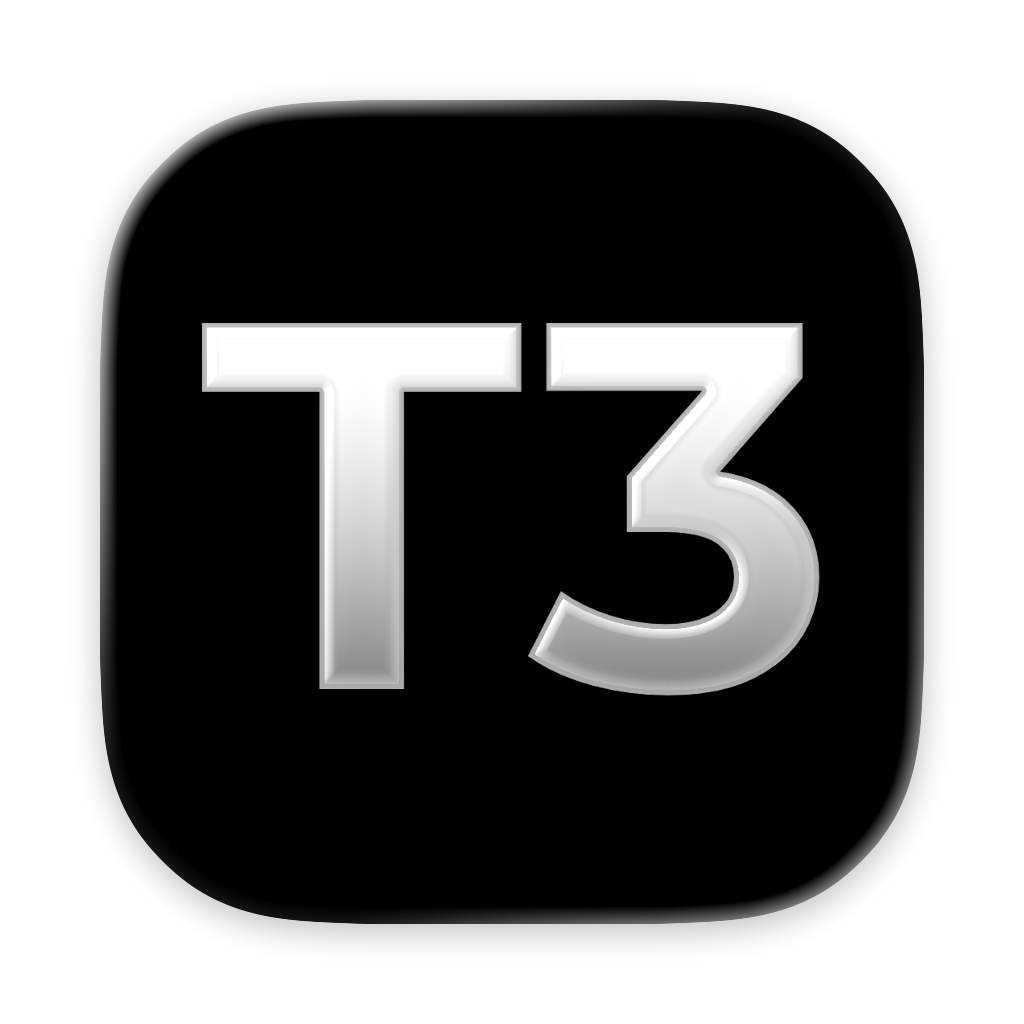
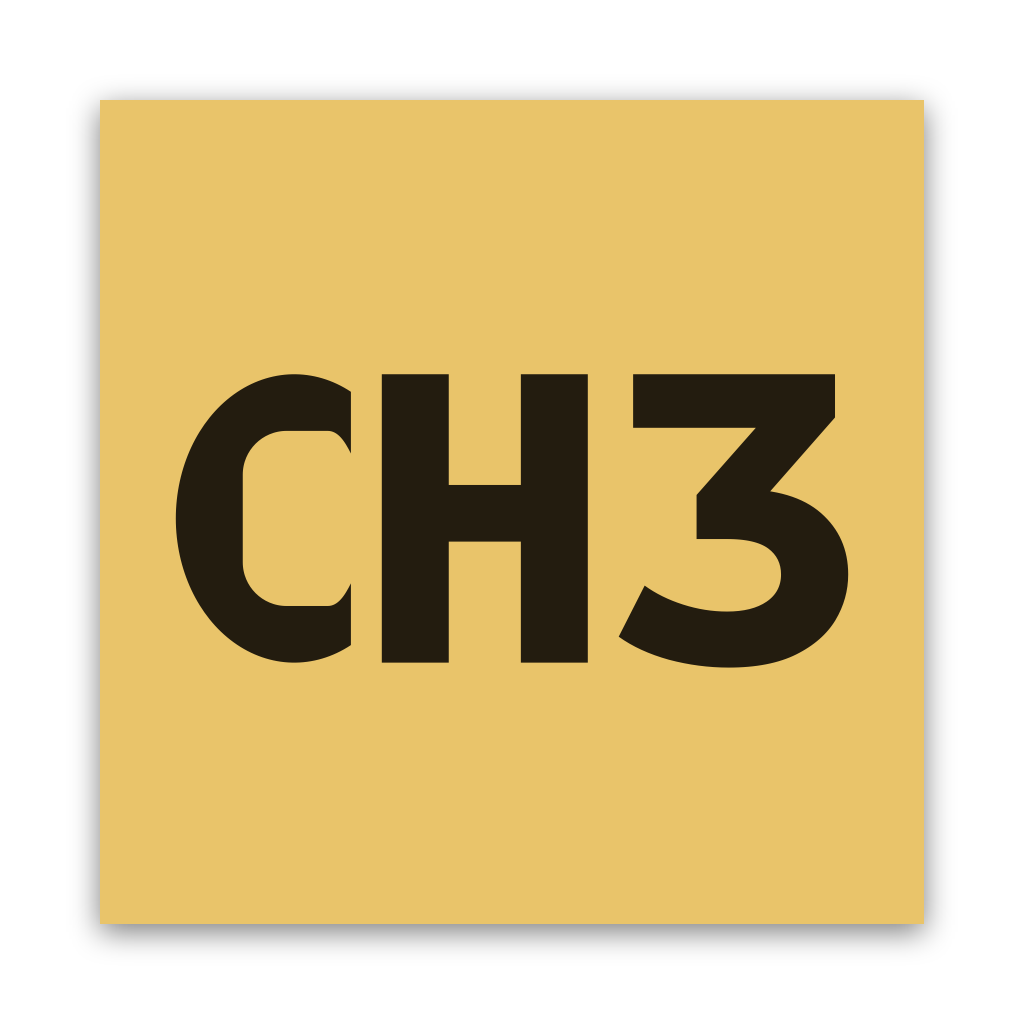
fix(ch3): finish the rebrand the text rename could not reach
The T3 -> CH3 pass was text substitution, so it renamed identifiers and
strings but could not touch two things that are not text:

1. THE WORDMARK GLYPH. SidebarChrome rendered <CH3Wordmark/> -- correctly
   named, aria-label="CH3" -- whose SVG path data still drew the letters T3.
   Path coordinates are just numbers; nothing in a find-and-replace can know
   that "M33.4509 93V47.56..." spells T3. A separate <span>Code</span> sat
   beside it, so the header read "T3 Code" in a fully "renamed" build.
   Swapped in the CH3 path with a recomputed viewBox for the new ink bounds
   (11.776 42.6 104.448 45.568), in both the web sidebar and the mobile
   wordmark. Dropped the "Code" suffix: the product is now just CH3.

2. THE APP ICON. The build generates icon.icns at package time by running
   sips/iconutil over assets/prod/black-macos-1024.png. That PNG still held
   the old black T3 mark, so every hand-edit to the generated .icns was
   overwritten on the next build. Replaced the source PNGs instead, so the
   build now produces the CH3 icon itself.

Also productName "CH3 (Alpha)" -> "CH3".

Verified against the built bundle, not the source: old T3 glyph path absent
(0 occurrences), CH3 path present (2), zero "T3 Code" strings, CFBundleName
"CH3", and the generated icns tile pixel reads (233,196,106) -- the CH3
yellow. The wordmark path was rendered to an image and visually confirmed to
draw C-H-3, because string counts had already produced one false "verified"
in this work.

diff --git a/ch3/apps/web/src/components/sidebar/SidebarChrome.tsx b/ch3/apps/web/src/components/sidebar/SidebarChrome.tsx
@@ -80,14 +80,6 @@ function SidebarBrand({ onBackdrop }: { onBackdrop: boolean }) {
       to="/"
     >
       <CH3Wordmark />
-      <span
-        className={cn(
-          "truncate text-sm font-medium tracking-tight",
-          onBackdrop ? "text-white/70" : "text-muted-foreground",
-        )}
-      >
-        Code
-      </span>
     </Link>
   );
 }
@@ -97,11 +89,11 @@ function CH3Wordmark() {
     <svg
       aria-label="CH3"
       className="h-2.5 w-auto shrink-0"
-      viewBox="15.5309 37 94.3941 56.96"
+      viewBox="11.776 42.6 104.448 45.568"
       xmlns="http://www.w3.org/2000/svg"
     >
       <path
-        d="M33.4509 93V47.56H15.5309V37H64.3309V47.56H46.4109V93H33.4509ZM86.7253 93.96C82.832 93.96 78.9653 93.4533 75.1253 92.44C71.2853 91.3733 68.032 89.88 65.3653 87.96L70.4053 78.04C72.5386 79.5867 75.0186 80.8133 77.8453 81.72C80.672 82.6267 83.5253 83.08 86.4053 83.08C89.6586 83.08 92.2186 82.44 94.0853 81.16C95.952 79.88 96.8853 78.12 96.8853 75.88C96.8853 73.7467 96.0586 72.0667 94.4053 70.84C92.752 69.6133 90.0853 69 86.4053 69H80.4853V60.44L96.0853 42.76L97.5253 47.4H68.1653V37H107.365V45.4L91.8453 63.08L85.2853 59.32H89.0453C95.9253 59.32 101.125 60.8667 104.645 63.96C108.165 67.0533 109.925 71.0267 109.925 75.88C109.925 79.0267 109.099 81.9867 107.445 84.76C105.792 87.48 103.259 89.6933 99.8453 91.4C96.432 93.1067 92.0586 93.96 86.7253 93.96Z"
+        d="M38.976 45.328C33.275 41.548 26.359 41.706 20.779 45.742C15.197 49.778 11.776 57.097 11.776 65C11.776 72.903 15.197 80.222 20.779 84.258C26.359 88.294 33.275 88.452 38.976 84.672L38.976 75.08C38.016 77 36.976 78.6 35.376 78.6L28.976 78.6C25.22 78.6 22.176 75.556 22.176 71.8L22.176 58.2C22.176 54.444 25.22 51.4 28.976 51.4L35.376 51.4C36.976 51.4 38.016 53 38.976 54.92ZM43.776 42.6H54.176V59.8H65.376V42.6H75.776V87.4H65.376V68.6H54.176V87.4H43.776V42.6ZM97.664 88.168C94.549 88.168 91.456 87.763 88.384 86.952C85.312 86.099 82.709 84.904 80.576 83.368L84.608 75.432C86.315 76.669 88.299 77.651 90.56 78.376C92.821 79.101 95.104 79.464 97.408 79.464C100.011 79.464 102.059 78.952 103.552 77.928C105.045 76.904 105.792 75.496 105.792 73.704C105.792 71.997 105.131 70.653 103.808 69.672C102.485 68.691 100.352 68.2 97.408 68.2H92.672V61.352L105.152 47.208L106.304 50.92H82.816V42.6H114.176V49.32L101.76 63.464L96.512 60.456H99.52C105.024 60.456 109.184 61.693 112 64.168C114.816 66.643 116.224 69.821 116.224 73.704C116.224 76.221 115.563 78.589 114.24 80.808C112.917 82.984 110.891 84.755 108.16 86.12C105.429 87.485 101.931 88.168 97.664 88.168Z"
         fill="currentColor"
       />
     </svg>

diff --git a/ch3/apps/mobile/src/components/CH3Wordmark.tsx b/ch3/apps/mobile/src/components/CH3Wordmark.tsx
@@ -12,10 +12,10 @@ export function CH3Wordmark(props: { readonly height: number; readonly color: Co
       accessibilityLabel="CH3"
       height={props.height}
       width={props.height * aspectRatio}
-      viewBox="15.5309 37 94.3941 56.96"
+      viewBox="11.776 42.6 104.448 45.568"
     >
       <Path
-        d="M33.4509 93V47.56H15.5309V37H64.3309V47.56H46.4109V93H33.4509ZM86.7253 93.96C82.832 93.96 78.9653 93.4533 75.1253 92.44C71.2853 91.3733 68.032 89.88 65.3653 87.96L70.4053 78.04C72.5386 79.5867 75.0186 80.8133 77.8453 81.72C80.672 82.6267 83.5253 83.08 86.4053 83.08C89.6586 83.08 92.2186 82.44 94.0853 81.16C95.952 79.88 96.8853 78.12 96.8853 75.88C96.8853 73.7467 96.0586 72.0667 94.4053 70.84C92.752 69.6133 90.0853 69 86.4053 69H80.4853V60.44L96.0853 42.76L97.5253 47.4H68.1653V37H107.365V45.4L91.8453 63.08L85.2853 59.32H89.0453C95.9253 59.32 101.125 60.8667 104.645 63.96C108.165 67.0533 109.925 71.0267 109.925 75.88C109.925 79.0267 109.099 81.9867 107.445 84.76C105.792 87.48 103.259 89.6933 99.8453 91.4C96.432 93.1067 92.0586 93.96 86.7253 93.96Z"
+        d="M38.976 45.328C33.275 41.548 26.359 41.706 20.779 45.742C15.197 49.778 11.776 57.097 11.776 65C11.776 72.903 15.197 80.222 20.779 84.258C26.359 88.294 33.275 88.452 38.976 84.672L38.976 75.08C38.016 77 36.976 78.6 35.376 78.6L28.976 78.6C25.22 78.6 22.176 75.556 22.176 71.8L22.176 58.2C22.176 54.444 25.22 51.4 28.976 51.4L35.376 51.4C36.976 51.4 38.016 53 38.976 54.92ZM43.776 42.6H54.176V59.8H65.376V42.6H75.776V87.4H65.376V68.6H54.176V87.4H43.776V42.6ZM97.664 88.168C94.549 88.168 91.456 87.763 88.384 86.952C85.312 86.099 82.709 84.904 80.576 83.368L84.608 75.432C86.315 76.669 88.299 77.651 90.56 78.376C92.821 79.101 95.104 79.464 97.408 79.464C100.011 79.464 102.059 78.952 103.552 77.928C105.045 76.904 105.792 75.496 105.792 73.704C105.792 71.997 105.131 70.653 103.808 69.672C102.485 68.691 100.352 68.2 97.408 68.2H92.672V61.352L105.152 47.208L106.304 50.92H82.816V42.6H114.176V49.32L101.76 63.464L96.512 60.456H99.52C105.024 60.456 109.184 61.693 112 64.168C114.816 66.643 116.224 69.821 116.224 73.704C116.224 76.221 115.563 78.589 114.24 80.808C112.917 82.984 110.891 84.755 108.16 86.12C105.429 87.485 101.931 88.168 97.664 88.168Z"
         fill={props.color}
       />
     </Svg>
